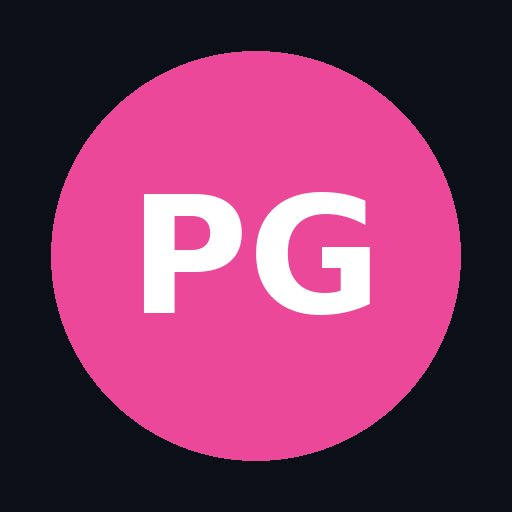
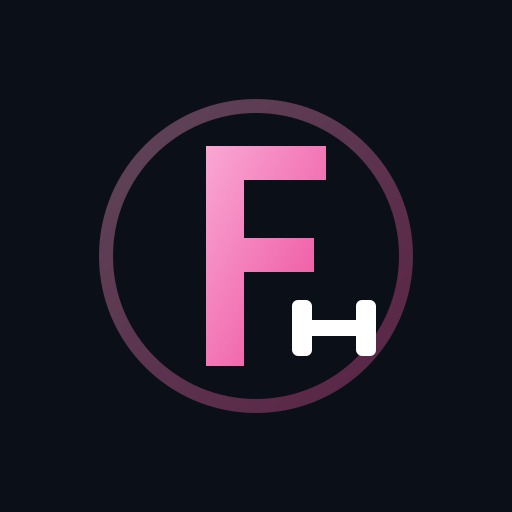
Rebrand: Focus + novo ícone

diff --git a/sw.js b/sw.js
@@ -1,4 +1,4 @@
-const C="plano-ginasio-v1";const F=["./","./index.html","./app.js","./style.css","./manifest.webmanifest","./icon-180.png","./icon-192.png","./icon-512.png","./img/Barbell_Hip_Thrust.jpg","./img/Bodyweight_Walking_Lunge.jpg","./img/Butt_Lift_Bridge.jpg","./img/Dead_Bug.jpg","./img/Dumbbell_Rear_Lunge.jpg","./img/Dumbbell_Shoulder_Press.jpg","./img/Dumbbell_Step_Ups.jpg","./img/Face_Pull.jpg","./img/Glute_Kickback.jpg","./img/Goblet_Squat.jpg","./img/Leg_Press.jpg","./img/Lying_Leg_Curls.jpg","./img/Plank.jpg","./img/Pushups.jpg","./img/Romanian_Deadlift.jpg","./img/Seated_Cable_Rows.jpg","./img/Side_Bridge.jpg","./img/Side_Lateral_Raise.jpg","./img/Split_Squat_with_Dumbbells.jpg","./img/Thigh_Abductor.jpg","./img/Wide-Grip_Lat_Pulldown.jpg"];
+const C="plano-ginasio-v2";const F=["./","./index.html","./app.js","./style.css","./manifest.webmanifest","./icon-180.png","./icon-192.png","./icon-512.png","./icon-maskable-512.png","./img/Barbell_Hip_Thrust.jpg","./img/Bodyweight_Walking_Lunge.jpg","./img/Butt_Lift_Bridge.jpg","./img/Dead_Bug.jpg","./img/Dumbbell_Rear_Lunge.jpg","./img/Dumbbell_Shoulder_Press.jpg","./img/Dumbbell_Step_Ups.jpg","./img/Face_Pull.jpg","./img/Glute_Kickback.jpg","./img/Goblet_Squat.jpg","./img/Leg_Press.jpg","./img/Lying_Leg_Curls.jpg","./img/Plank.jpg","./img/Pushups.jpg","./img/Romanian_Deadlift.jpg","./img/Seated_Cable_Rows.jpg","./img/Side_Bridge.jpg","./img/Side_Lateral_Raise.jpg","./img/Split_Squat_with_Dumbbells.jpg","./img/Thigh_Abductor.jpg","./img/Wide-Grip_Lat_Pulldown.jpg"];
 self.addEventListener("install",e=>{e.waitUntil(caches.open(C).then(c=>c.addAll(F)));self.skipWaiting();});
 self.addEventListener("activate",e=>{e.waitUntil(caches.keys().then(k=>Promise.all(k.filter(x=>x!==C).map(x=>caches.delete(x)))));self.clients.claim();});
 self.addEventListener("fetch",e=>{e.respondWith(caches.match(e.request).then(r=>r||fetch(e.request)));});

diff --git a/index.html b/index.html
@@ -2,10 +2,10 @@
 <meta name="viewport" content="width=device-width,initial-scale=1,viewport-fit=cover">
 <meta name="apple-mobile-web-app-capable" content="yes"><meta name="mobile-web-app-capable" content="yes">
 <meta name="apple-mobile-web-app-status-bar-style" content="black-translucent">
-<meta name="apple-mobile-web-app-title" content="Plano Ginásio"><meta name="theme-color" content="#0b0f17">
+<meta name="apple-mobile-web-app-title" content="Focus"><meta name="theme-color" content="#0b0f17">
 <link rel="apple-touch-icon" href="icon-180.png"><link rel="manifest" href="manifest.webmanifest">
-<link rel="stylesheet" href="style.css"><title>Plano Ginásio</title></head>
-<body><header><h1>Plano Ginásio</h1><span id="cd"></span><div class="seg" id="wk"></div></header>
+<link rel="stylesheet" href="style.css"><title>Focus</title></head>
+<body><header><h1>Focus</h1><span id="cd"></span><div class="seg" id="wk"></div></header>
 <main id="app"></main><nav id="nav"></nav>
 <script src="app.js"></script>
 <script>if("serviceWorker" in navigator)navigator.serviceWorker.register("sw.js");</script></body></html>
